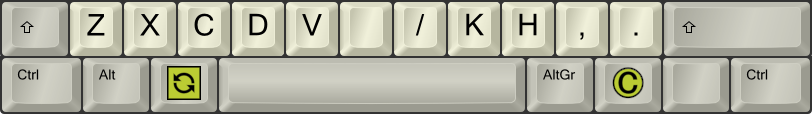
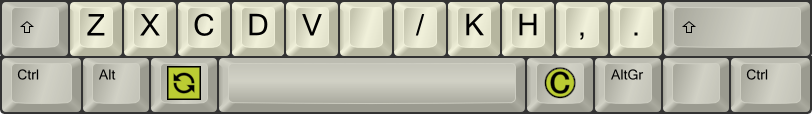
Minor CoDeKey edit
* Added a table of CoDeKey greatest hits
* Swapped it with AltGr in the image

Changed region(s): [[0.7389, 0.5789, 0.8005, 0.8684], [0.6466, 0.5789, 0.7081, 0.8684], [0.9852, 0.9737, 1.0, 1.0]]

diff --git a/docs/layers-main.html b/docs/layers-main.html
@@ -225,5 +225,22 @@ title: Character Mapping Layers
     <a href="layers-extend.html#ext-tap"><b>Extend-tap</b></a> is a neat way of supercharging your Extend key for both chording and sequencing in one key! The Extend key can be a multi-layer dual-function key that produces different one-shot (dead key) or chording (modifier) layers based on the shift state at the time of tapping or holding it down. This way it can be a gate to the best of both the chording and sequencing worlds. I call such a multi-mode modifier a <b>Mother-of-DeadKeys (MoDK)</b> Extend key. Sadly, this isn't available on all platforms.
 </p>
 <h4>CoDeKey</h4><p>
-    <b>CoDeKey</b> is another supercharged key, only available in EPKL for Windows at the moment. This one is a Compose key if you've entered a recognized Compose sequence beforehand. If not, it becomes a dead key instead and waits for a release key press! I use it quite a lot these days, as a thumb key. With it, I can compose anything I like easily, but also type for instance Period-Space-Shift more easily as <kbd>CoDeKey</kbd> then a home-row key – with other home row keys for other punctuation++. I think it's amazing!
-</p>
+    <b>CoDeKey</b> is another supercharged key, only available in EPKL for Windows at the moment. This one is a Compose key if you've entered a recognized Compose sequence beforehand. If not, it becomes a dead key instead and waits for a release key press! I use it quite a lot these days, as a thumb key. With it, I can compose anything I like, but also type for instance Period-Space-Shift more easily as <kbd>CoDeKey</kbd> then a home-row key – with other home row keys for other punctuation. I think it's amazing!
+</p><p>This table holds some CoDeKey dead key mappings that I like a lot. Naturally, you're free to experiment and complement.</p>
+<pre><code>
++===========+===========+========================+
+|  Cmk Key  |  QWE Key  |  Effect after CoDeKey  |
++===========+===========+========================+
+|  N        |  J        |  ! → Space → Shift     |
+|  E        |  K        |  , → Space             |
+|  I        |  L        |  . → Space → Shift     |
+|  O        |  ;        |  ? → Space → Shift     |
+|  ;        |  P        |  : → Space             |
+|  -        |  -        |  Space → - → Space     |
+|  U        |  I        |  Space → (             |
+|  Y        |  O        |          ) → Space     |
+|  Q        |  Q        |  Escape                |
+|  D        |  C        |  Delete Previous Word  |
+|  [ ] /    |  [ ] /    |  locale/custom glyphs  |
++-----------+-----------+------------------------+
+</code></pre>

diff --git a/docs/ergo-mods.html b/docs/ergo-mods.html
@@ -478,6 +478,9 @@ Colemak-CurlAngleWideSym on an ANSI board, with ()-&#91;&#93; swap:
 </p><p>
     I've taken to using both the Alt keys and their neighbors (LWin on the left and RWin or whatever is on the right) since I want thumb keys for useful tools like <kbd>Repeat</kbd> and <kbd>Compose</kbd> keys (see the <a href="layers-main.html#sequences">Sequences</a> section). Having such power keys at your thumbs' disposal is quite awesome!
 </p><p>
+    Since <kbd>Repeat</kbd> makes same-thumb bigrams with <kbd>Space</kbd> but <kbd>CoDeKey</kbd> does not, I recommend having Repeat on the thumb you don't use for Space. 
+    I space with my right hand thumb.
+</p><p>
     <!-- img alt="The keys near Space, before modding"       src="/res/cmk/ergomods/Mod-Modness-0_Before.png" />
     <p><i>An ISO keyboard before modding. The keys next to <kbd>Alt</kbd> are often <kbd>Win</kbd> (GUI); the last one <kbd>Menu</kbd> (App).</i -->
     <img alt="The keys near Space, before modding"       src="/res/cmk/ergomods/Mod-Modness-1_CAWS.png" />
